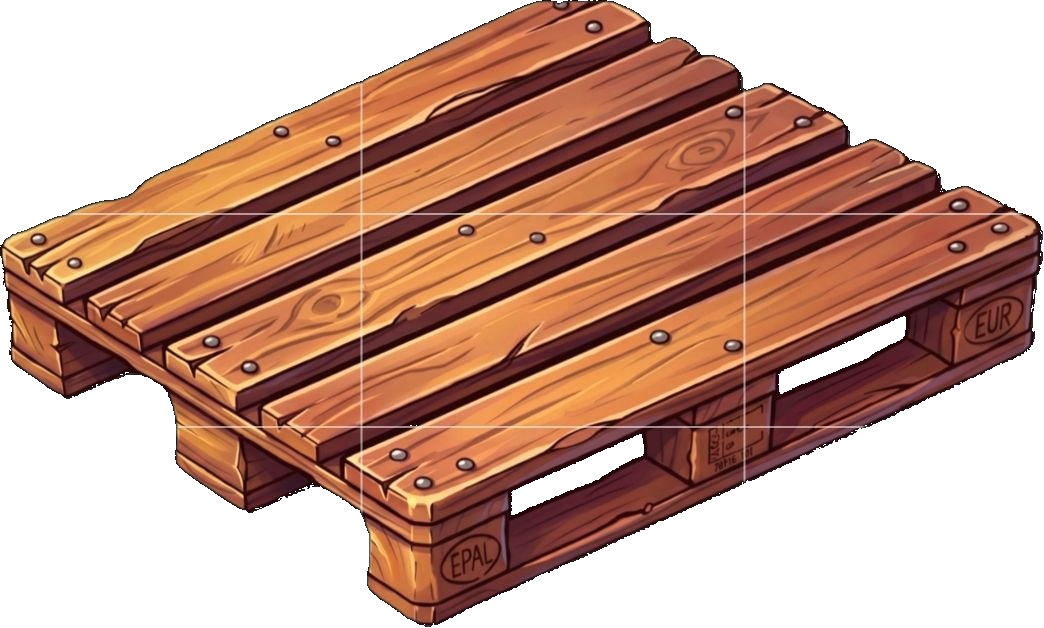
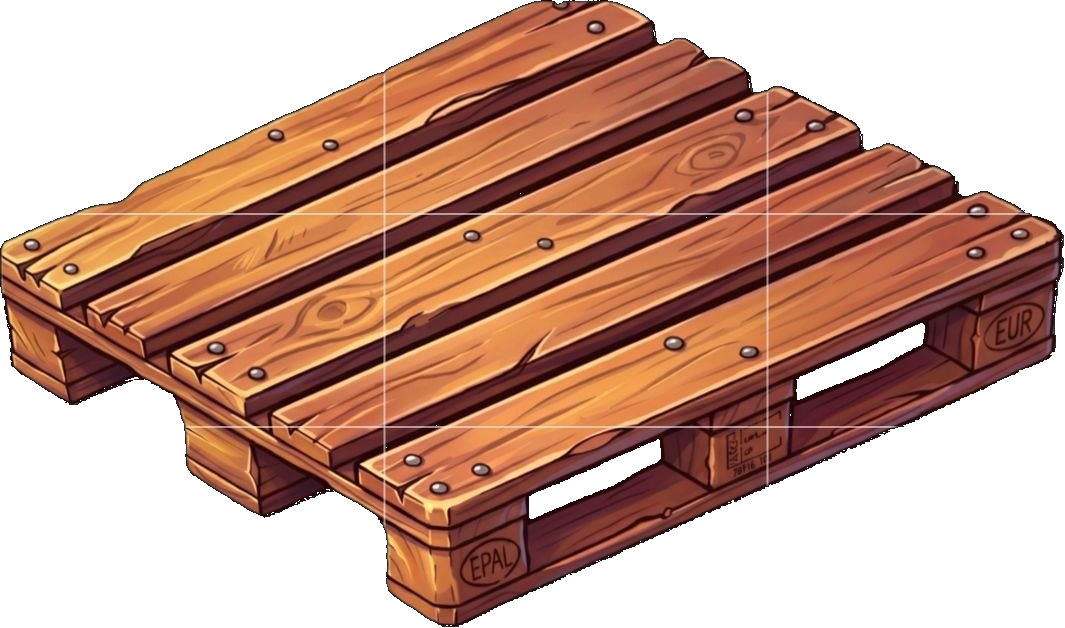
Replace pallet photo with latest art (v166).

Changed region(s): [[0.0, 0.0, 1.0, 0.9984]]

diff --git a/02-sklad/index.html b/02-sklad/index.html
@@ -8,9 +8,9 @@
     <title>Склад</title>
     <meta name="theme-color" content="#14110d" />
     <meta name="apple-mobile-web-app-capable" content="yes" />
-    <link rel="manifest" href="manifest.json?v=165" />
+    <link rel="manifest" href="manifest.json?v=166" />
     <link rel="icon" href="../icon.svg" type="image/svg+xml" />
-    <link rel="stylesheet" href="style.css?v=165" />
+    <link rel="stylesheet" href="style.css?v=166" />
   </head>
   <body>
     <div class="scene" aria-hidden="true">
@@ -216,6 +216,6 @@
       </div>
     </div>
 
-    <script src="game.js?v=165"></script>
+    <script src="game.js?v=166"></script>
   </body>
 </html>

diff --git a/02-sklad/game.js b/02-sklad/game.js
@@ -1116,8 +1116,8 @@ function palWood(name) {
   );
 }
 
-const EMPTY_PAL = "art/pal-empty.png?v=165";
-const YARD_PIC = "art/yard.jpg?v=165";
+const EMPTY_PAL = "art/pal-empty.png?v=166";
+const YARD_PIC = "art/yard.jpg?v=166";
 const ART_URLS = [
   YARD_PIC,
   EMPTY_PAL,

diff --git a/02-sklad/style.css b/02-sklad/style.css
@@ -4294,7 +4294,7 @@ body.iso-yard .inside.yard-locked {
 
 body.iso-yard .inside-pic {
   background:
-    url("art/yard.jpg?v=165") center center / 100% 100% no-repeat,
+    url("art/yard.jpg?v=166") center center / 100% 100% no-repeat,
     #c4b48c;
 }
 
